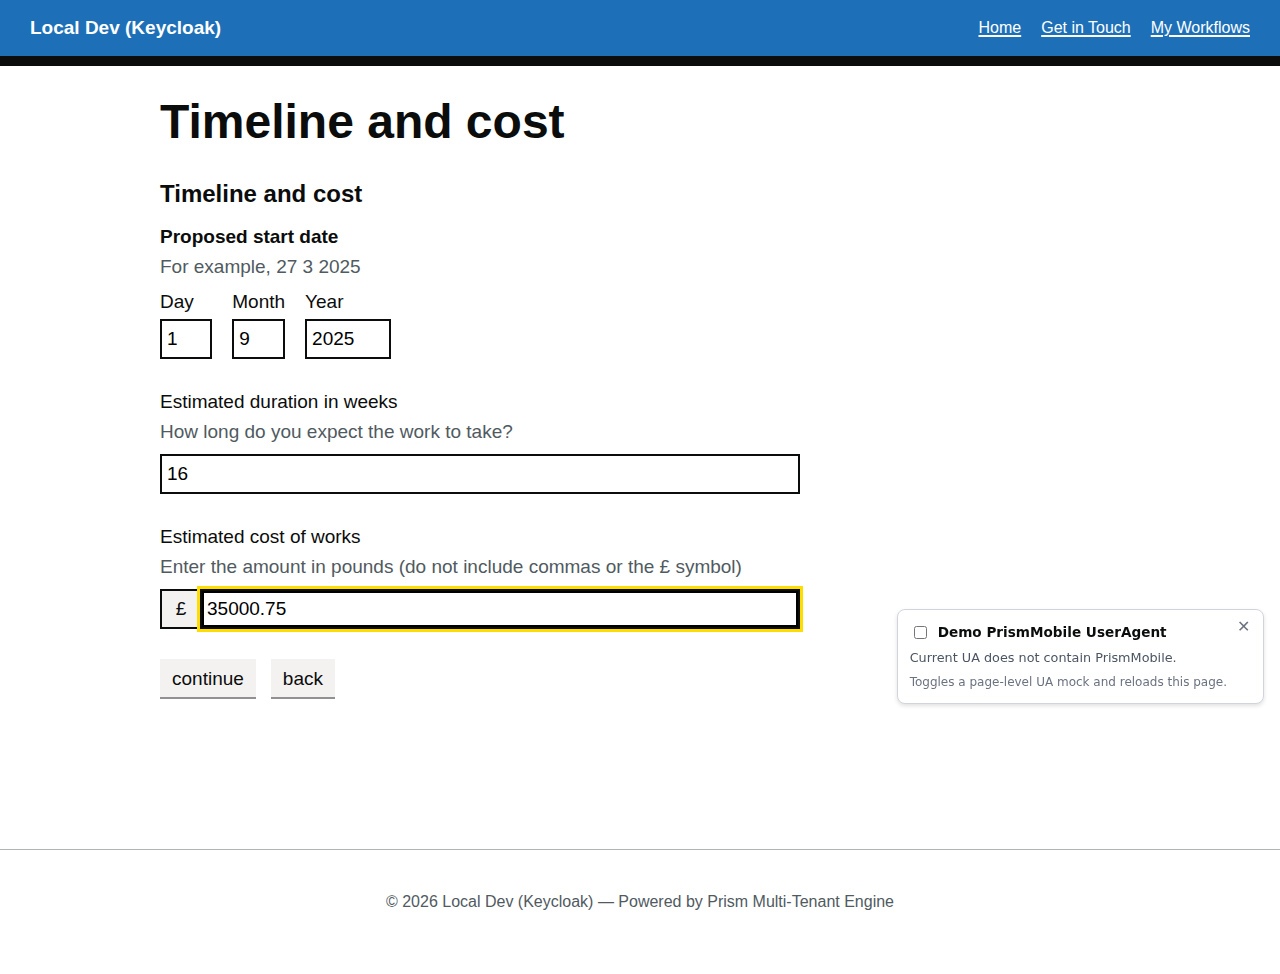
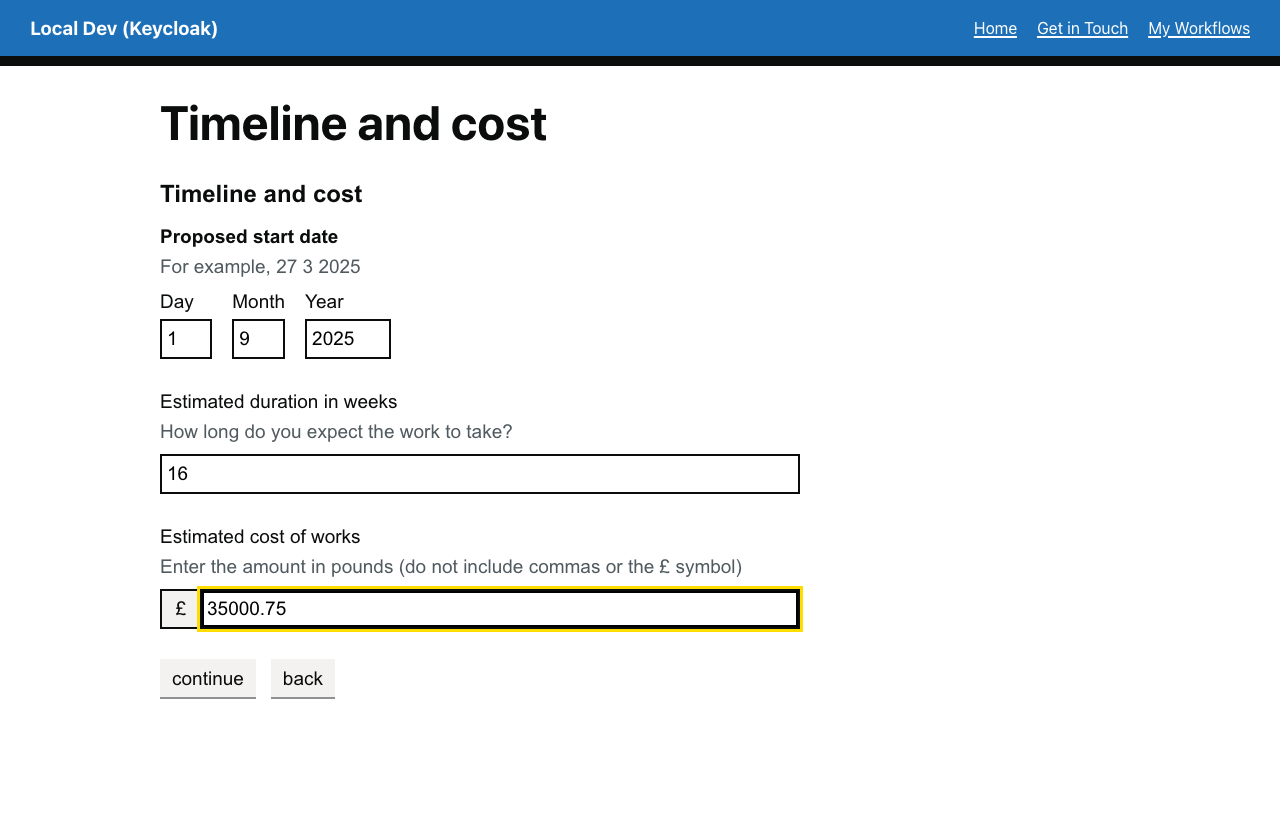
docs: refresh planning screenshots and update showcase ordering
- Regenerate all 9 planning notification walkthrough PNG screenshots with current capture behavior
- Update README to prioritize payment demo as primary showcase, planning as secondary example

diff --git a/README.md b/README.md
@@ -39,19 +39,22 @@ Click the button to spin up the full Umbraco Prism stack in a browser — no loc
 
 ---
 
-## 🚀 Interactive Walkthrough — "Apply for Planning Permission"
+## 🚀 Interactive Walkthrough — "Payment Processing Workflow"
 
-Once your stack is running, follow the step-by-step guide to complete the demo workflow — with explanations of what Umbraco.Prism and the Umbraco backoffice are doing at each stage.
+Once your stack is running, follow the step-by-step guide to see the demo workflow in action — with explanations of what Umbraco.Prism and the Umbraco backoffice are doing at each stage.
 
-→ **[Full walkthrough: docs/walkthroughs/planning-notification.md](docs/walkthroughs/planning-notification.md)**
+→ **[Full walkthrough: docs/walkthroughs/payment-demo.md](docs/walkthroughs/payment-demo.md)**
 
 The walkthrough covers:
-- Logging in via Keycloak SSO and what the token exchange looks like
-- Walking through each GDS form step (project details, work type, timeline & cost, affected parties)
-- The check-answers review screen and how field values are aggregated
-- Submitting and seeing the confirmation
-- Behind the scenes: workflow definition files, polymorphic workflow components, the workflow engine, and how Umbraco renders them
-- Exploring further: editing definitions, watching engine logs in Aspire, testing with multiple browsers
+- Logging in via Keycloak SSO and submitting a payment form
+- **Waiting states** — the form pauses and persists while a reviewer processes it (Prism's core pattern)
+- Watching the workflow hub show real-time status updates
+- Switching to the reviewer role and advancing the workflow from the admin panel
+- The member page **auto-updates without a refresh** when the reviewer completes their action
+- Behind the scenes: workflow definitions, state machines, the Prism workflow engine, and how persistence and real-time updates work
+- Exploring further: editing workflow definitions, monitoring engine logs in Aspire, testing async patterns
+
+**Alternative:** [Planning permission walkthrough](docs/walkthroughs/planning-notification.md) for multi-step complex forms with conditional field logic.
 
 ---
 
@@ -239,7 +242,8 @@ In backoffice:
 
 | Guide | Description |
 |---|---|
-| [Workflow Walkthrough](docs/walkthroughs/planning-notification.md) | Step-by-step demo of the planning permission workflow — what you see and what's happening behind the scenes |
+| [Workflow Walkthrough — Payment Demo](docs/walkthroughs/payment-demo.md) | Step-by-step demo of the payment workflow — shows Prism's core "submit now, finish later" pattern with waiting states, real-time updates, and reviewer workflows |
+| [Alternative Walkthrough — Planning Permission](docs/walkthroughs/planning-notification.md) | Multi-step form with conditional fields, document upload, and review screens — demonstrates complex form branching |
 | [Secret Management](docs/secret-management.md) | Configure OIDC client secrets for production tenants, understand local dev demo |
 | [Umbraco Setup](docs/umbraco-setup.md) | Install Prism, configure tenants, seed content |
 | [Biometric Setup](docs/biometric-setup.md) | Generate signing/encryption keys for mobile biometric auth |
